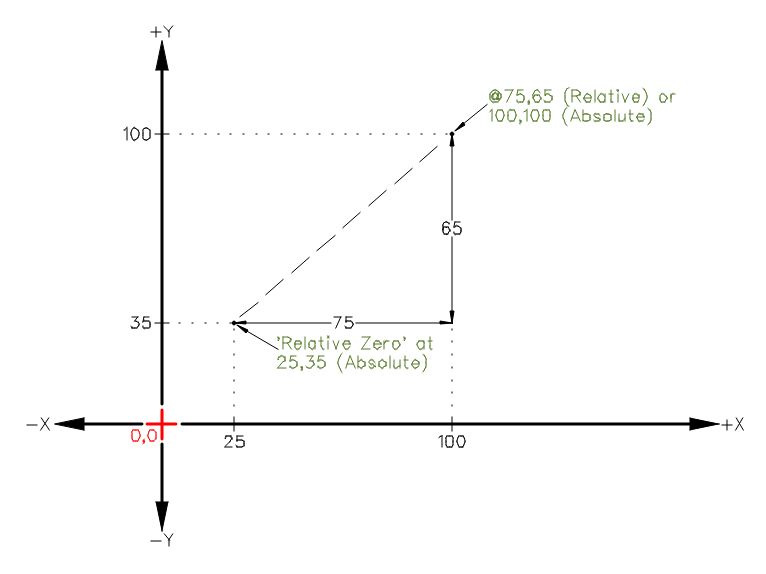
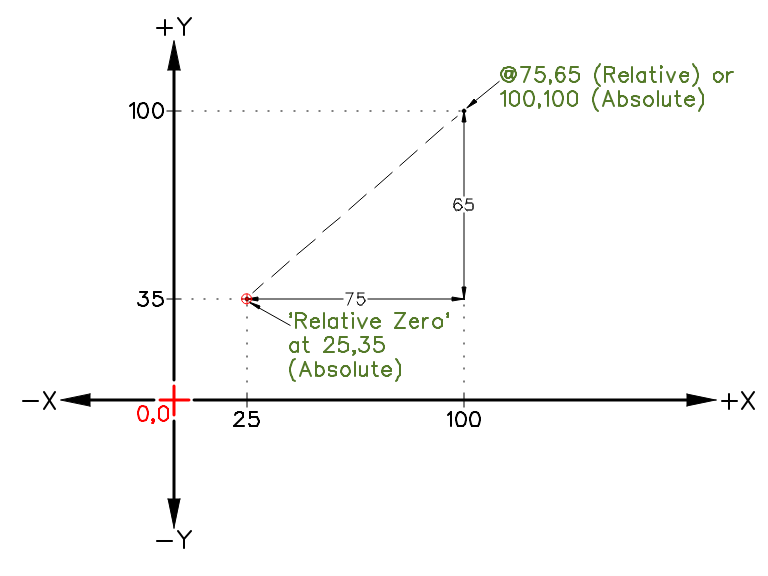
Coord images directive updates

diff --git a/ref/fundamentals.rst b/ref/fundamentals.rst
@@ -19,9 +19,9 @@ LibreCAD supports two drawing perspectives; orthogonal and isometric.  Orthogona
 The Coordinate System
 ---------------------
 
-Understanding the coordinates systems and how coordinates work in LibreCAD is necessary to produce exact drawings.  Every entity (e.g. a line, circle, etc.) that is drawn in LibreCAD can be drawn with precision, placed accurately using coordinates.  
+Understanding the coordinates systems and how coordinates work in LibreCAD is necessary to produce exact drawings.  Points used to describe every entity (e.g. a line, circle, etc.) that is drawn in LibreCAD can be drawn with precision by accurately placing the points using coordinates.  
 
-There are two ways to define coordinates in LibreCAD.  They can be placed by specifying:
+There are two ways to define coordinates in LibreCAD to locate a point.  A point can be placed by specifying:
  
     - a horizontal distance and vertical distance from a reference point (*Cartesian*).
     - an angle and distance from a reference point (*Polar*).
@@ -46,10 +46,9 @@ LibreCAD also uses a *Relative Zero Point*.  It is the last point set when creat
 
 .. actual image size 768px x 576px
 
+
 .. Force end of left / right text wrap
 .. include:: /inclFiles/eoWrap.rst
-
-
 
 Angles
 ~~~~~~
@@ -72,7 +71,7 @@ Angles
 
 .. actual image size 254px x 190px
 
-All angles in LibreCAD are measured in 360 degrees in an anti-clockwise direction beginning from 0 degrees (the 3 o'clock position). The *<* symbol is used to designate an angle when using polar coordinates, e.g.50<45.
+All angles in LibreCAD are measured in 360 degrees in an anti-clockwise direction beginning from 0 degrees (the 3 o'clock position).
 
 .. Force end of left / right text wrap
 .. include:: /inclFiles/eoWrap.rst
@@ -87,17 +86,17 @@ There are two coordinate systems used in LibreCAD, *Cartesian* and *Polar*.
 
     .. figure:: /images/byCartesian.png
         :align: right
-        :scale: 100
+        :scale: 67
         :alt: Cartesian Coordinates
 
 .. only:: latex
 
     .. figure:: /images/byCartesian.png
         :align: center
-        :scale: 67
+        :scale: 50
         :alt: Cartesian Coordinates
 
-.. actual image size 510px x 382px
+.. actual image size 768px x 576px
 
 Cartesian
 `````````
@@ -112,25 +111,26 @@ The *Cartesian* coordinate system is commonly used in most CAD programs.  Cartes
 
     .. figure:: /images/byPolar.png
         :align: right
-        :scale: 100
+        :scale: 67
         :alt: Polar Coordinates
 
 .. only:: latex
 
     .. figure:: /images/byPolar.png
         :align: center
-        :scale: 67
+        :scale: 50
         :alt: Polar Coordinates
 
-.. actual image size 510px x 382px
+.. actual image size 768px x 576px
 
 Polar
 `````
 
-The *Polar* coordinate system uses one distance and one angle to locate a point in a drawing.  In LibreCAD the polar coordinates take the form *100 < 45*, indicating a line 100 units long and at an angle of 45 degrees as shown.
+The *Polar* coordinate system uses one distance and one angle to locate a point in a drawing.  In LibreCAD the *<* symbol is used to designate an angle when using polar coordinates.  Polar coordinates take the form *100 < 60*, indicating a line 100 units long and at an angle of 60 degrees as shown. 
 
 .. Force end of left / right text wrap
 .. include:: /inclFiles/eoWrap.rst
+
 
 Defining Coordinate Locations
 ~~~~~~~~~~~~~~~~~~~~~~~~~~~~~
@@ -161,7 +161,7 @@ When using Absolute coordinates, whether Cartesian or polar, points are entered 
         :scale: 50
         :alt: Absolute & Relative Cartesian Coordinates
 
-.. actual image size 766px x 574px
+.. actual image size 768px x 576px
 
 .. _relative:
 
@@ -174,17 +174,17 @@ The last coordinate defined when creating an entity becomes a temporary referenc
 
     .. figure:: /images/byAbsCoorRelPolar.png
         :align: right
-        :scale: 100
+        :scale: 67
         :alt: Absolute Cartesian & Relative Polar Coordinates
 
 .. only:: latex
 
     .. figure:: /images/byAbsCoorRelPolar.png
         :align: center
-        :scale: 67
+        :scale: 50
         :alt: Absolute Cartesian & Relative Polar Coordinates
 
-.. actual image size 510px x 382px
+.. actual image size 768px x 576px
 
 When using cartesian coordinates for example, to set a 65 units above and 75 units to the right of the previous point, use "@75,65".  In this example, if the previous point was set at 20 units and 45 vertically (20,45) from the origin (0,0), setting the next point @75,65 relative to 20,45, using @75,65 would result in a point at 100 units horizontally and 100 vertically (100,100 absolute).
 
